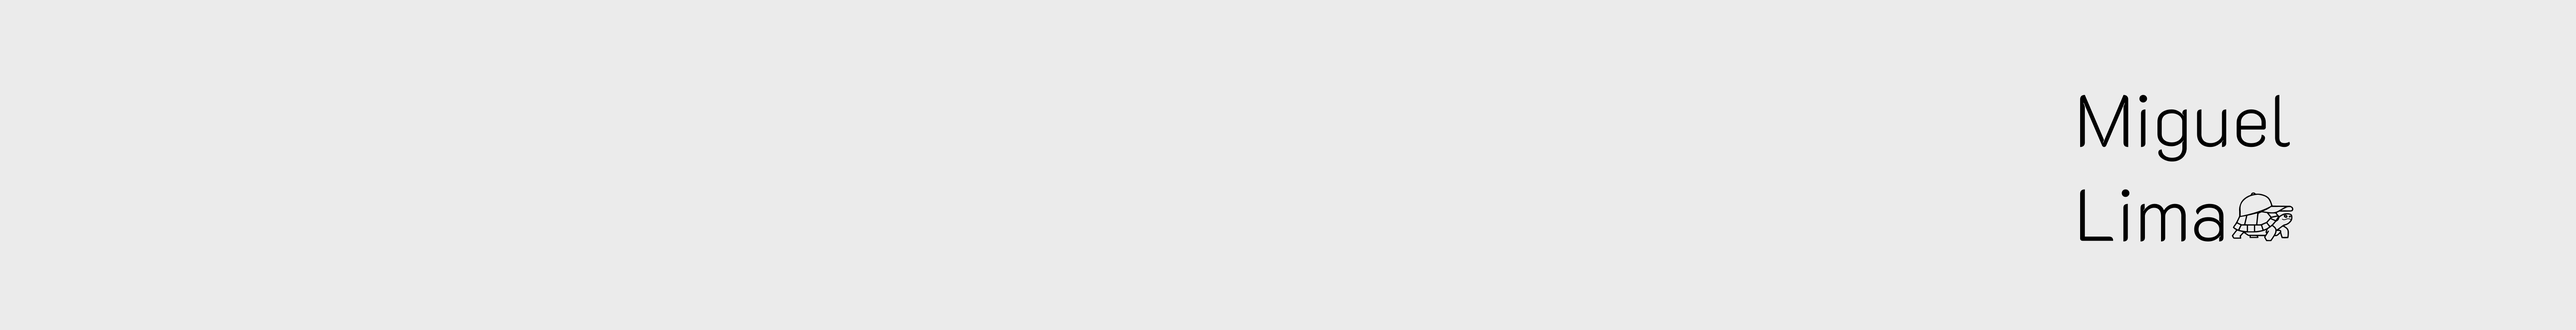
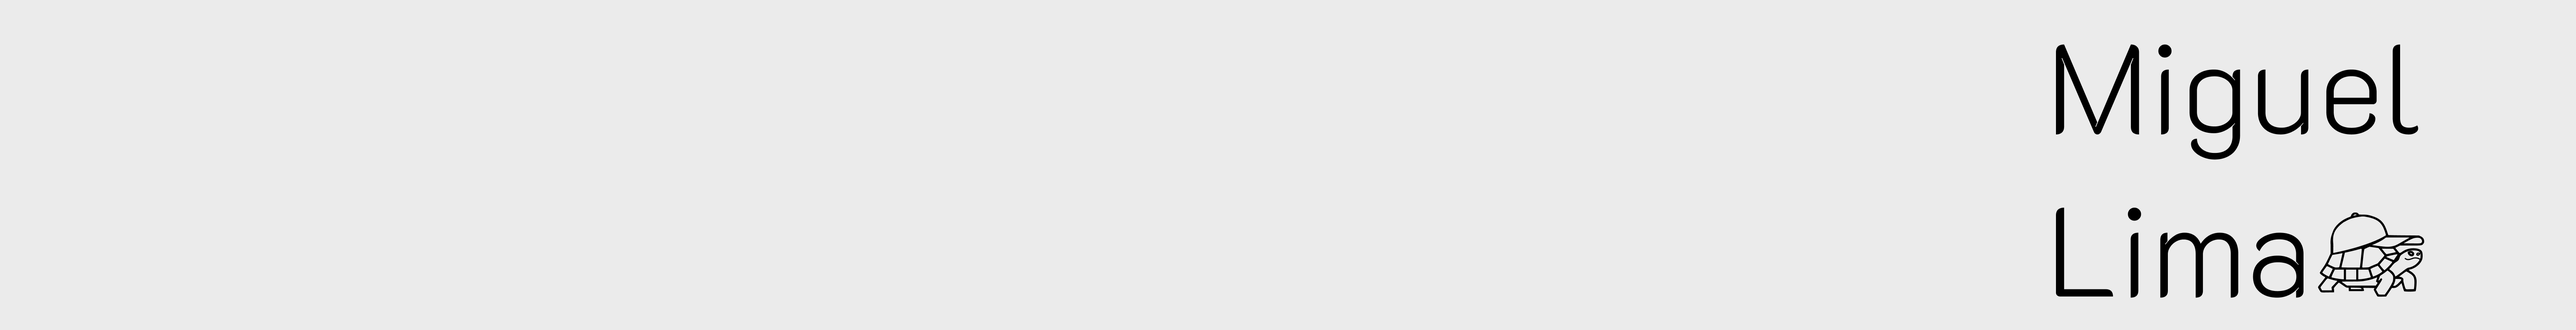
Fixing cover quality

Changed region(s): [[0.7812, 0.6098, 0.9375, 0.9146], [0.7812, 0.122, 0.9375, 0.4878]]

diff --git a/README.md b/README.md
@@ -1,5 +1,5 @@
 <div align="center">
-  <img src="./cover.png" alt="Profile Header" width="600px">
+  <img src="./cover.png" alt="Profile Header" width="full">
 </div>
 
 # Hey there! I'm Miguel. 👋
